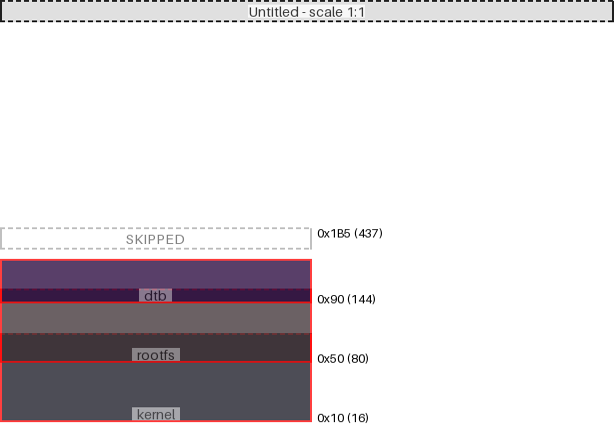
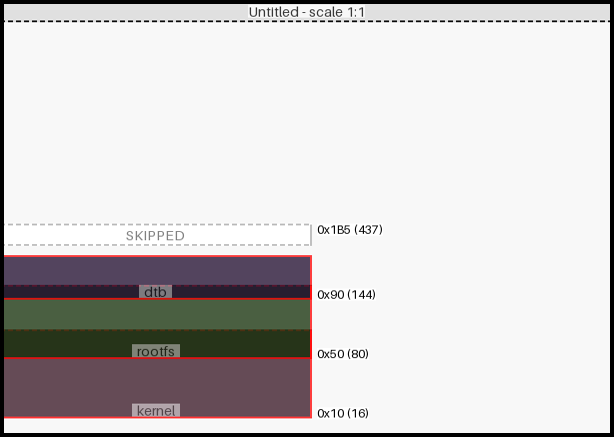
updated background color, updated diagrams in gitignore

Changed region(s): [[0.0, 0.0, 1.0, 1.0]]

diff --git a/mm/metamodel.py b/mm/metamodel.py
@@ -149,7 +149,7 @@ class Diagram(ConfigParent):
     ]
     bgcolour: Annotated[
         ColourType,
-        pydantic.Field("white", description="The background colour used for the diagram")
+        pydantic.Field((0xF8,0xF8,0xF8), description="The background colour used for the diagram")
     ] 
     link_alpha: Annotated[
         int,

diff --git a/README.md b/README.md
@@ -27,8 +27,8 @@ Tool for generating diagrams that show the mapping of regions in memory, specifc
 - Diagram width and height can be specified using JSON. The contents will be automatically draw to the correct scale within the requested diagram size. If height is not set then the correct height will be calculated from the region data. NOTE: Command line input can ONLY set both the diagram height and max address simulataneously using the 'limit' option. 
 - Max address can be set using JSON. If this is higher than the diagram height, the contents will be scaled. If regions exceed this max address, the collision will be highlighted both in the diagram and table. 
 
-  ![](docs/example/example_end_collision_diagram.png)
-  ![](docs/example/example_end_collision_table.png)
+  ![](docs/example/example_end_collisions_diagram.png)
+  ![](docs/example/example_end_collisions_table.png)
 
   If max address is not set then the diagram height will be used. NOTE: Command line input can ONLY set both the diagram height and max address simulataneously using the 'limit' option.
 
